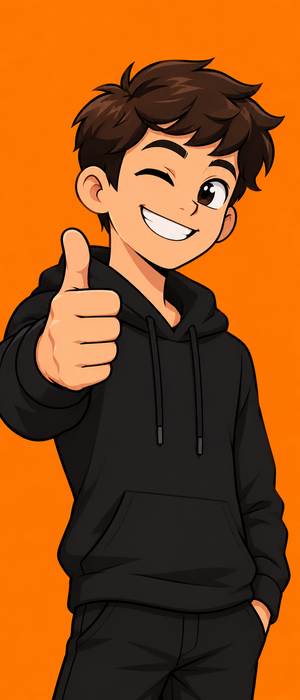
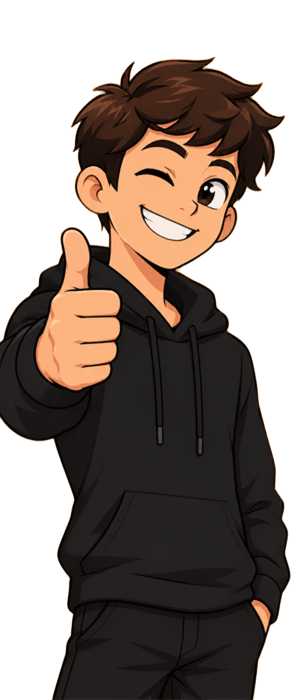
atualização projeto

diff --git a/Projetos/EficienciaEnergetica/styleMetas.css b/Projetos/EficienciaEnergetica/styleMetas.css
@@ -104,23 +104,30 @@ header nav a img {
     text-align: center;
 }
 
-.textoObjetivo span {
+.habilidade{
+    display: flex;
+    flex-direction: column;
+    align-items: center;
+}
+
+.habilidade span {
     margin: 0;
     color: #5d300a;
     font-size: 18px;
     font-weight: bold;
+    margin-bottom: 5%;
 }
 
 .trilho {
     width: 100%;
-    height: 16px;
+    height: 25px;
     background-color: #e2e8f0;
     border-radius: 999px;
     overflow: hidden;
-    margin-bottom: 10%;
+    margin-top: 10%;
 }
 .preenchido {
-    width: 70%;
+    width: 46%;
     height: 100%;
 
     background: linear-gradient(
@@ -151,9 +158,66 @@ header nav a img {
     font-size: 20px;
 }
 
+.cards{
+    padding: 20px;
+    background-color: #F87400;
+    display: grid;
+    grid-template-columns: repeat(4,1fr);
+    padding: 10px;
+    box-shadow: 10px 10px 5px black;
+}
 
+.cardInformacao{
+    background-color: #fffeee;
+    margin: 5%;
+    padding: 20px;
+    border: #F87400 2px solid;
+    border-radius: 20px;
+    display: flex;
+    flex-direction: column;
+    text-align: center;
+}
 
+.cardEconomia{
+    background-color: #fffeee;
+    margin: 5%;
+    padding: 20px;
+    border: #F87400 2px solid;
+    border-radius: 20px;
+    display: flex;
+    flex-direction: column;
+    /* align-items: center; */
+    text-align: center;
+} 
 
+.cards img{
+    height: 50px;
+}
+
+.cardInformacao footer{
+    text-align: center;
+    font-size: 12px;
+    margin-top: 25%;
+}
+
+.cardInformacao strong{
+    font-size: 30px;
+    margin: 10% 0% 2%;
+}
+
+.cardEconomia strong{
+    font-size: 30px;
+    margin: 10% 0% 5%;
+}
+
+.cardInformacao, .cardEconomia{
+    width: clamp(200px, 400px, 600px);
+    height: clamp(175px, 350px, 525px);
+}
+
+.cardEconomia h3{
+    margin-top: 2%;
+}
 
 .rodape{
     height: 100px;
@@ -166,7 +230,7 @@ button:active {
 
 
 
-@media (max-width: 900px) {
+@media (max-width: 1000px) {
     nav {
         flex-direction: column;
         gap: 12px;
@@ -180,32 +244,6 @@ button:active {
         order: -1;
     }
 
-    .objetivoBox{
-    margin: 0% 10% 0% 10%;
-    }
-
-    .cardsProjetos{
-    display: flex;
-    flex-direction: column;
-    align-items: center;
-    margin: 0% 10% 0% 10%;
-    }
-    .card{
-    background-color: #fffeee;
-    border-radius: 20px;
-    min-height: 300px;
-    min-width: 200px;
-    border: 1px solid #000000;
-    margin: 2% 5% 2% 5%;
-    }
-    .cardSobre button{
-    grid-column: 1;
-    }
-    .cardSobre{
-    padding: 20px;
-    margin: 10% 10%;
-    ;
-    }
     .logoMenu{
         margin-left: 47%;
     }
@@ -226,5 +264,51 @@ button:active {
     .textoObjetivo {
         margin: 10%;
     }
+
+    .cards{
+        grid-template-columns: repeat(2, 1fr);
+    }
 }
+
+@media (max-width: 700px) {
+    nav {
+        flex-direction: column;
+        gap: 12px;
+    }
+
+    nav a {
+        width: 100%;
+    }
+
+    nav a:nth-child(4) {
+        order: -1;
+    }
+
+    .logoMenu{
+        margin-left: 47%;
+    }
+
+    .inicioC button{
+        margin: 0% 0% 20%;
+    }
+
+    .inicioC h1{
+        font-size: clamp(24px, 5vw, 50px);
+    }
+
+    .inicioC{
+        display: flex;
+        flex-direction: column;
+    }
+
+    .textoObjetivo {
+        margin: 10%;
+    }
+
+    .cards{
+        justify-content: center;
+        grid-template-columns: repeat(1, 1fr);
+    }
+}
+
 

diff --git a/Projetos/EficienciaEnergetica/metas.html b/Projetos/EficienciaEnergetica/metas.html
@@ -37,10 +37,11 @@
                 </p>
 
                 <article class="habilidade">
-                    <span><strong>46%</strong></span>
+                    
                     <article class="trilho">
                         <article class="preenchido"></article>
                     </article>
+                    <span><strong>46%</strong></span>
                 </article>
 
                 <p>
@@ -59,7 +60,7 @@
         <section class="cards">
             <article class="cardInformacao">
                 <header>
-                    <img src="" alt="">
+                    <img src="/EficienciaEnergetica/acess/Melhoria.png" alt="">
                     <h3>Melhoria da eficiência energética (2025)</h3>
                 </header>
 
@@ -78,7 +79,7 @@
 
             <article class="cardInformacao">
                 <header>
-                    <img src="" alt="">
+                    <img src="/EficienciaEnergetica/acess/Crescimento.png" alt="">
                     <h3>Crescimento de demanda energética (2025)</h3>
                 </header>
 
@@ -97,7 +98,7 @@
 
             <article class="cardInformacao">
                 <header>
-                    <img src="" alt="">
+                    <img src="/EficienciaEnergetica/acess/" alt="">
                     <h3>Meta de economia</h3>
                 </header>
 
@@ -114,9 +115,9 @@
                 </footer>
             </article>
 
-            <article class="cardInformacao">
+            <article class="cardEconomia">
                 <header>
-                    <img src="" alt="">
+                    <img src="/EficienciaEnergetica/acess/Economia.png" alt="">
                     <h3>Economia mundial</h3>
                 </header>
 

diff --git a/Projetos/EficienciaEnergetica/contato.html b/Projetos/EficienciaEnergetica/contato.html
@@ -13,7 +13,7 @@
         <nav>
             <a href="/EficienciaEnergetica/praticas.html">Boas Práticas</a>
             <a href="/EficienciaEnergetica/consumo.html">Consumo e Desperdício</a>
-            <a href="#metas">Metas e Indicadores</a>
+            <a href="/EficienciaEnergetica/metas.html">Metas e Indicadores</a>
             <a href="/EficienciaEnergetica/index.html"><img src="/EficienciaEnergetica/acess/Sem nome (1000 x 1000 px)-Photoroom.png" alt="" class="logoMenu"></a>
             <a href="/EficienciaEnergetica/contato.html">Contato</a>
             <a href="/EficienciaEnergetica/equipe.html">Sobre a equipe</a>

diff --git a/Projetos/EficienciaEnergetica/styleContato.css b/Projetos/EficienciaEnergetica/styleContato.css
@@ -168,6 +168,10 @@ input, textarea{
     margin: 10%;
 }
 
+.enviarEmail h3{
+    font-size: 30px;
+}
+
 .enviarEmail h3, input, textarea, label, button{
     margin: 2%;
 }
@@ -185,6 +189,7 @@ input, textarea{
 
 .imagem{
     grid-column: 1;
+    margin-left: 25%;
 }
 
 .experiencia{

diff --git a/Projetos/EficienciaEnergetica/styleCalculadora.css b/Projetos/EficienciaEnergetica/styleCalculadora.css
@@ -236,7 +236,7 @@ label {
 }
 
 .outlook {
-    height: 70px;
+    height: 50px;
 }
 
 .yahoot {
